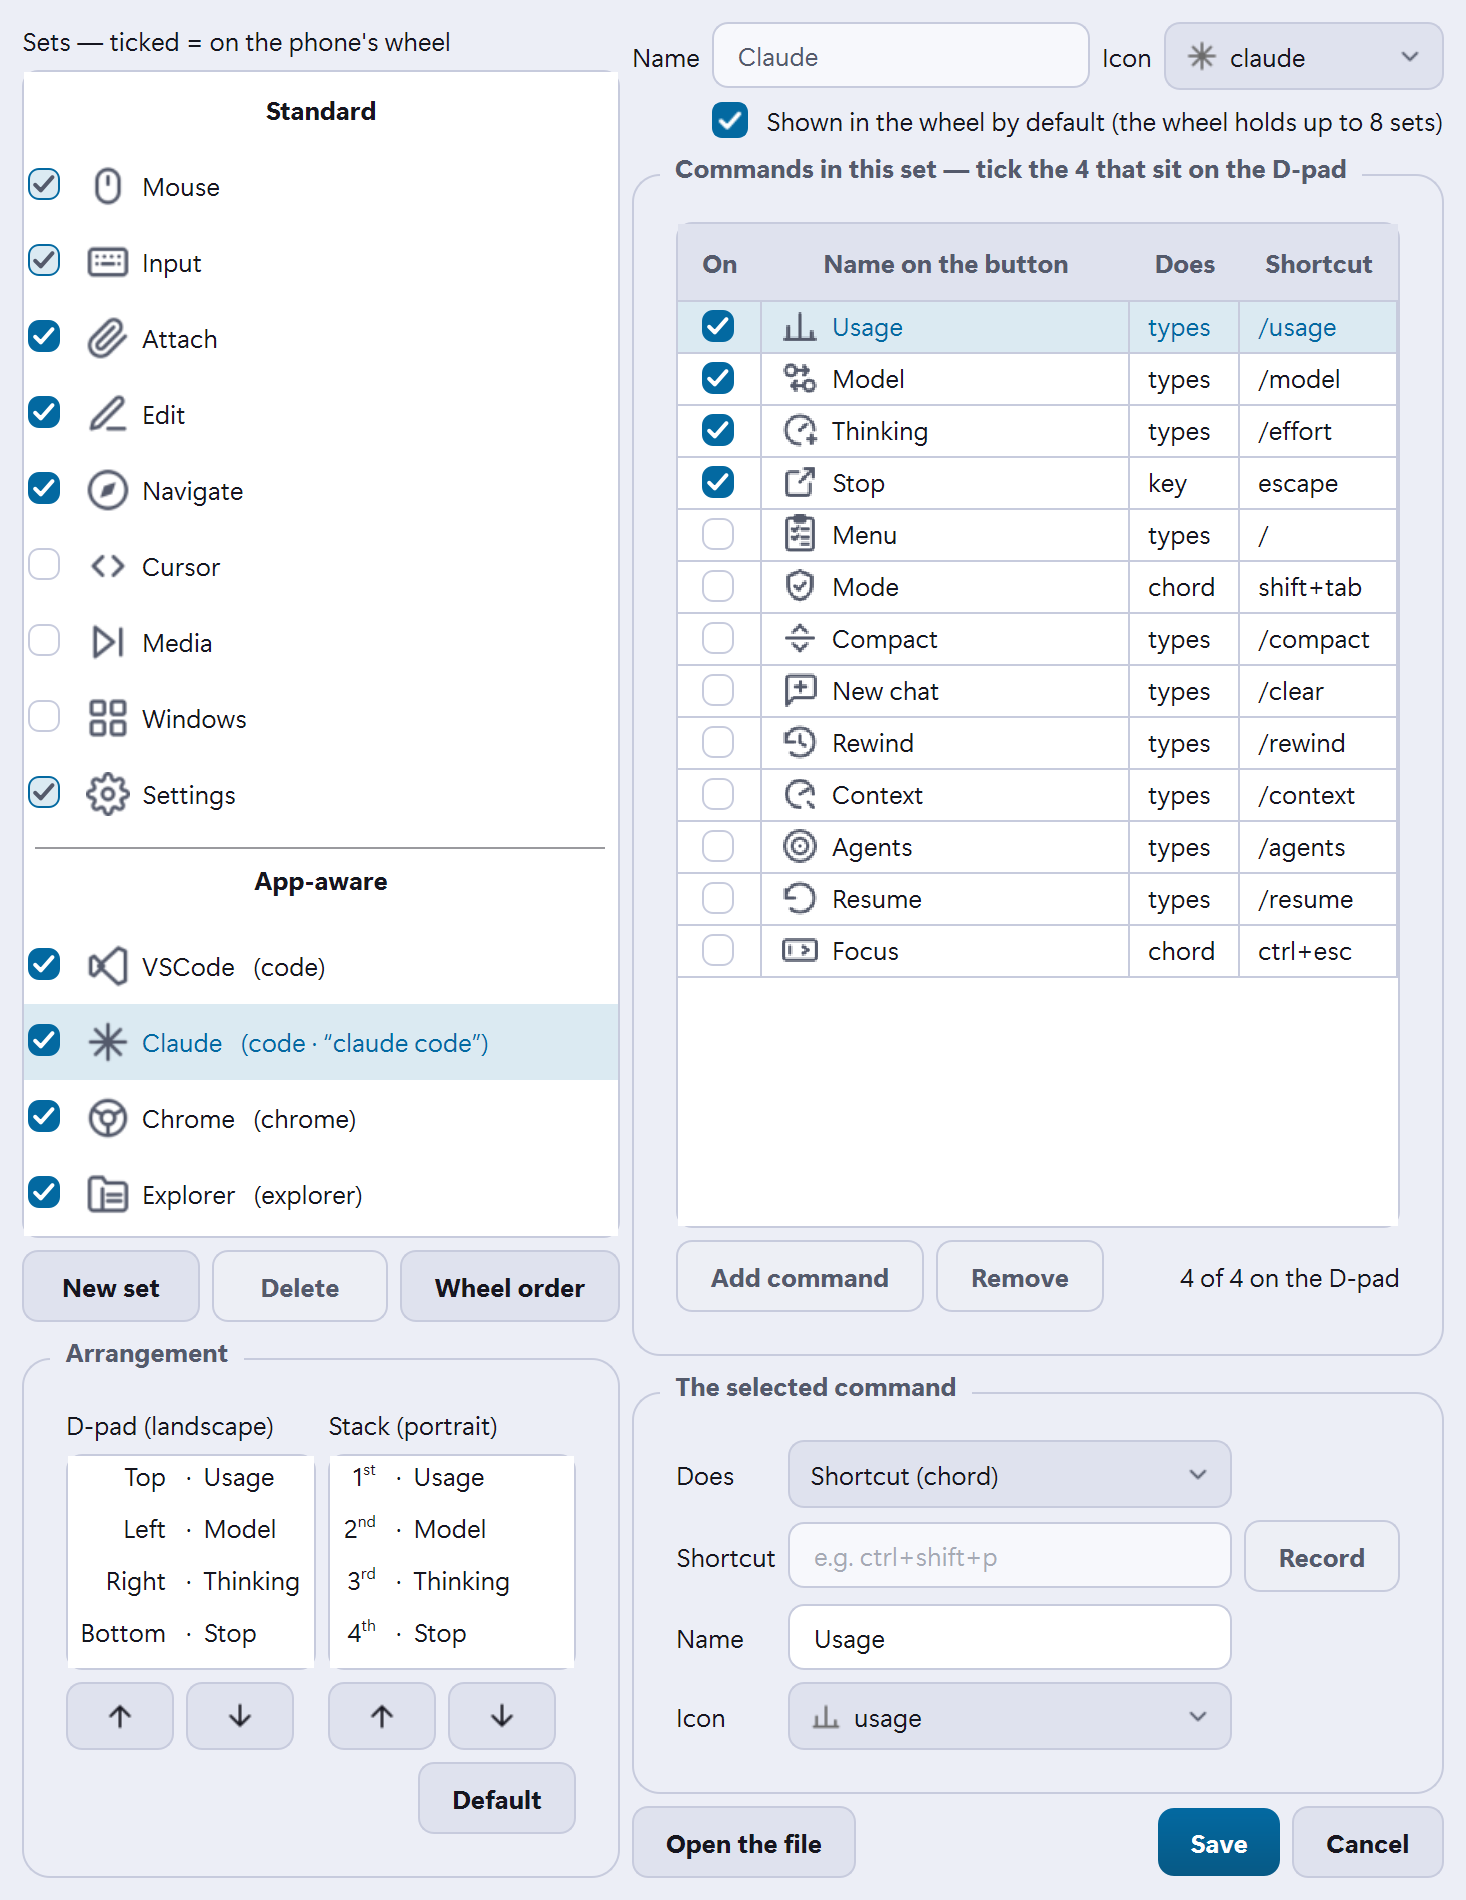
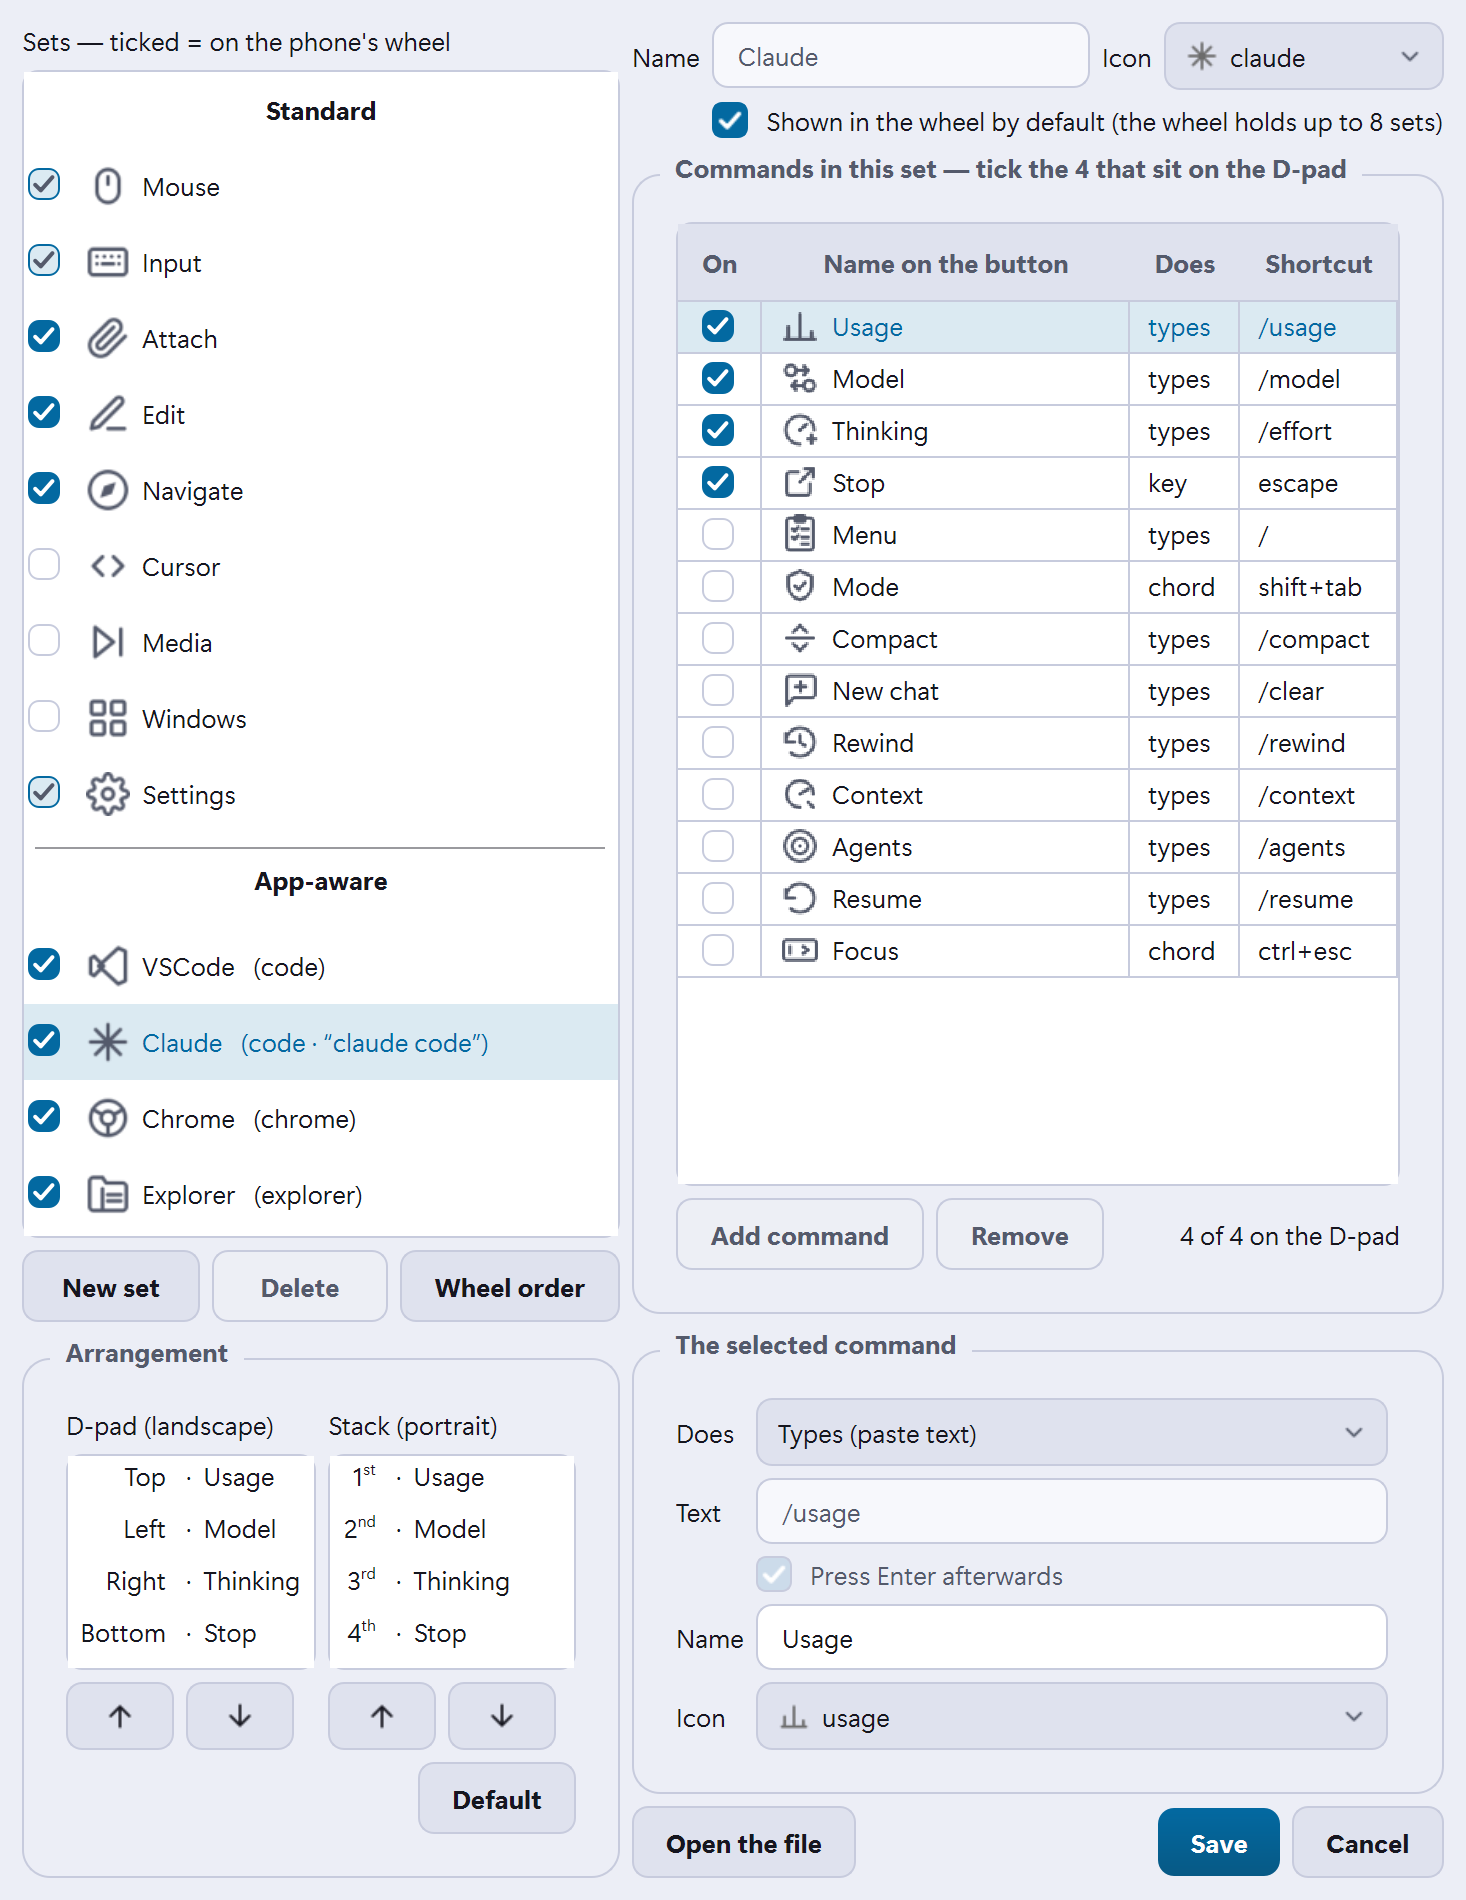
0.0.324 The coordinator opens the pictures himself
THE SPACE & LEGIBILITY LAW's gate wants the eyes of whoever ends the session,
not a summary of someone else's. Four independent graders ran this round and
their findings drove eight fix rounds; this block is my own reading of seven
images I opened after the audits regenerated them against HEAD.

It cost one more fix. Reading ControlsEditor I found the command table saying
'types . /usage' while the panel three centimetres below offered 'Shortcut
(chord)' with a Record button for that same selected row - the window
contradicting itself about one command. That is 7/10, so it went back (0.0.323)
and the 8/10 recorded here is the fixed window, not a revised number.

visual-proof.json re-pointed at the current commit with every referenced image
newer than it: 36 items, none below the bar.

Changed region(s): [[0.4297, 0.6211, 0.9516, 0.8695], [0.8288, 0.8074, 0.9516, 0.8384], [0.5218, 0.9005, 0.6139, 0.9316]]

diff --git a/.claude/layout-proof.md b/.claude/layout-proof.md
@@ -2390,3 +2390,139 @@ uncorrected.
   other. Nothing is cut and nothing scrolls — this is composition, not the law.
 - **Region grab landscape 8.** The 915x66 CSS letterbox the free band leaves.
 - **Controls and wheel landscape 8.** Met, but its only photograph is hand-made.
+
+---
+
+SESSION: 5eac3ddf-7019-4f1c-914a-95246d063c38
+ROUND: TYPED COMMAND FIX (2026-08-07) — answering Finding 1
+
+Finding 1 above (the ControlsEditor calling a typed command a chord) is fixed.
+Every line below was written AFTER re-running `tests/test_layout_audit_qt.py`
+from THIS session (both palettes PASS, ControlsEditor unchanged at
+MIN 733x950 — the reflow round's own footprint survives untouched) and opening
+the freshly regenerated `.claude/shots/ControlsEditor.png` /
+`ControlsEditor__light.png` with the Read tool.
+
+- ControlsEditor (server/gui/controls_widgets.py, server/gui/controls_editor.py) - MIN 733x950 - SHOT .claude/shots/ControlsEditor.png - GRADE 9/10 - audit: PASS
+- ControlsEditor light (server/gui/controls_widgets.py, server/gui/controls_editor.py) - MIN 733x950 - SHOT .claude/shots/ControlsEditor__light.png - GRADE 8/10 - audit: PASS
+
+## What changed
+
+`CommandTable.fill` already read a typed command correctly ("types ·
+/usage"); `CommandDetail.show_button` had no branch for `{"text": …}` at all
+and fell into the chord `else`, so the SAME selected row (Claude's Usage, the
+first button in its pool — the row the audit's fullest-pool selection lands
+on automatically) showed **"Shortcut (chord)"** over an empty field with a
+live Record button. Fixed with a third kind, `KIND_TEXT`: the `Does` combo
+gains "Types (paste text)" (the table's own word), and selecting it shows a
+**Text** row (the real string, e.g. `/usage`) and a **"Press Enter
+afterwards"** checkbox (`enter`, previously nowhere in this UI) instead of
+the chord row — the two rows are mutually exclusive, drawn with `setVisible`,
+never both on screen at once. Opening the shot: for the selected "Usage" row,
+"The selected command" now reads exactly —
+
+    Does      [Types (paste text)  v]
+    Text      [/usage.........................]
+              [x] Press Enter afterwards
+    Name      [Usage.........................]
+    Icon      [usage  v]
+
+— matching the pool table's own "types · /usage" cell for the same row. No
+shortcut field, no Record button, no contradiction.
+
+A typed command is also now CREATABLE in a custom set: "Add command" seeds a
+blank chord command as before, and switching its "Does" combo to "Types
+(paste text)" reveals the Text field and Enter checkbox, which `dump()` turns
+into `{"label", "text", "enter", "icon"?}` — the exact `paste_text` shape
+`server/web.py`'s handler and the client's command chooser expect (proven by
+`tests/test_controls_sets.py::test_a_custom_typed_command_round_trips`).
+
+## The real bug the runtime audit caught along the way
+
+The first version of this fix put the new "Press Enter afterwards" checkbox
+in the SAME narrow column the Record button uses. That checkbox's text is
+much wider than "Record", and because the fullest-pool audit selection lands
+on a TYPED command by default (Claude's Usage), the checkbox — not the
+Record button — was the thing actually occupying that column when the window
+was first measured. `tests/test_layout_audit_qt.py` failed immediately:
+`CLIPPED QComboBox '-': has 162x34, needs at least 218x34` — the `Does` combo
+itself, starved by its own narrow-column neighbour. THE SPACE & LEGIBILITY
+LAW's own ladder gave the answer: reflow, not a wider window. The checkbox
+now rides its own row, spanning the field and button columns instead of
+sharing the narrow one, and the clip is gone in both palettes with the
+window's minimum UNCHANGED at 733x950 (in fact 70 px narrower than the
+first, un-reflowed attempt at 803x950 — the checkbox's width no longer
+inflates the floor at all).
+
+## The deduction, stated rather than rounded away
+
+- **ControlsEditor 9 dark / 8 light.** The standing, pre-existing idle space
+  under the pool table's last row (~124 device px, documented in earlier
+  rounds — all thirteen Claude commands fit with no scrollbar, so nothing is
+  hidden by it) is untouched by this round and still the honest reason this
+  is not a 10. Light loses one further point for the same generic reason
+  earlier rounds gave SettingsWindow's light pass: correct and readable
+  rather than beautiful, no new defect of its own.
+
+SESSION: 5eac3ddf-7019-4f1c-914a-95246d063c38
+
+The COORDINATOR's own eyes, at the end of round 15. Four independent graders ran
+before this block and their findings drove eight fix rounds; what follows is not
+a summary of theirs. I opened each image below myself, after the audits
+regenerated them against HEAD e5a6b8e, and graded what I saw. Where I saw
+something below the bar I sent it back rather than write a higher number: the
+Controls editor was 7/10 in my own reading an hour ago — the command table said
+"types . /usage" while the panel below it offered "Shortcut (chord)" with a
+Record button for the same selected row — and it is 8/10 here because that was
+FIXED (0.0.323), not because I revised the number.
+
+- MainWindow (server/gui/main_window.py) - MIN 463x685 - SHOT .claude/shots/MainWindow.png - GRADE 8/10 - audit: PASS
+- SettingsWindow (server/gui/settings_window.py) - MIN 718x943 - SHOT .claude/shots/SettingsWindow.png - GRADE 8/10 - audit: PASS
+- TrafficWindow (server/gui/traffic_window.py) - MIN 635x558 - SHOT .claude/shots/TrafficWindow.png - GRADE 8/10 - audit: PASS
+- ControlsEditor light (server/gui/controls_widgets.py) - MIN 733x950 - SHOT .claude/shots/ControlsEditor__light.png - GRADE 8/10 - audit: PASS
+- WheelOrderDialog light (server/gui/controls_order.py) - MIN 377x592 - SHOT .claude/shots/WheelOrderDialog__light.png - GRADE 9/10 - audit: PASS
+- Controls light outlined (client/style.css) - MIN 412x915 - SHOT .claude/shots/Controls_light_transparent.png - GRADE 8/10 - audit: PASS
+- Controls light filled (client/style.css) - MIN 412x915 - SHOT .claude/shots/Controls_light_full.png - GRADE 8/10 - audit: PASS
+
+What I actually saw, and the deduction behind each number:
+
+MainWindow 8 - QR card, guidance, Stop server, three ICON buttons with no "..."
+and the sun/moon pill after RUNNING. "Stop server" sits alone with the right
+half of its row empty; the full-width update bar shouts louder than the RUNNING
+pill does.
+
+SettingsWindow 8 - five cards, one accent, label columns on one edge, and the
+notification failure now reads as a SENTENCE in the semantic error red, not an
+OSError repr with an installed path in it. The two Appearance combos are unequal
+widths, and Focus/Startup - paired to keep the minimum inside the frame - are
+not equal width either.
+
+TrafficWindow 8 - the legend finally names its own two directions IN THEIR OWN
+COLOURS (blue out, amber in, a grey band, a dashed peak); the axis carries its
+unit, the gridlines round values, the X axis real times, and "Recording to file"
+is an honest status dot instead of a checkbox nobody may click. The plot reads
+as a panel now. It is empty because the audit fixture is 0 B/s - a fixture
+limit, not a product one, and it is why the hover card is proven by hand-made
+shots rather than by the audit.
+
+ControlsEditor light 8 - every text input is a real white box with a real
+border (it was one unit per channel off the page), the set list has a card, all
+13 of the Claude set's commands are visible with NO scrollbar beside a column
+that used to hold ~480px of nothing, the caret is a drawn chevron instead of a
+solid square, and the detail panel now says "Types (paste text)" with the text
+and a "Press Enter afterwards" box - a field that has been in actions.json since
+2026-08-05 and had never had any UI at all. Deduction: ~124px of idle grid under
+the pool table, and the right column now ends higher than the left.
+
+WheelOrderDialog 9 - the ring sits beside its caption (it was marooned in ~350px
+of dead space), the ordinals are right-aligned so the separators form one edge,
+all 13 rows show, the list has a card on light, the arrows are drawn, OK is
+primary. Deduction: the ring illustrates the rule rather than showing HIS actual
+order.
+
+Controls light outlined / filled 8 and 8 - these two were BYTE-IDENTICAL before
+this round; the fill axis the desktop offers did nothing on one of three themes.
+Now outlined lets the page through a thin border and filled is a solid white
+card raised off it. Real, but subtler on light than on dark - white on a very
+light page - which is inherent to the theme rather than a defect I would send
+back. The "Use from anywhere" pill carries a DRAWN globe; the emoji is gone.
